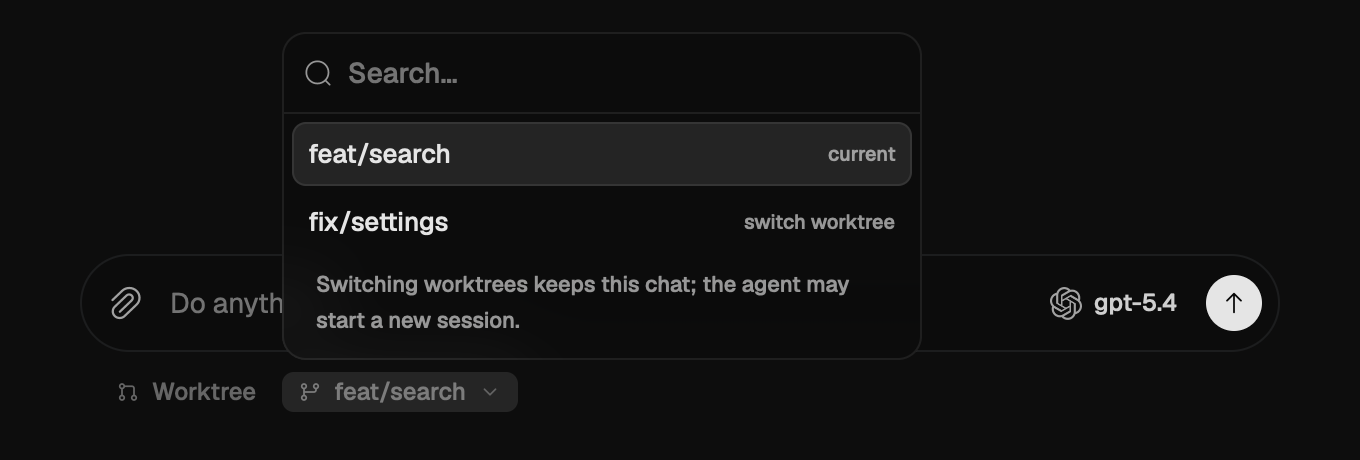
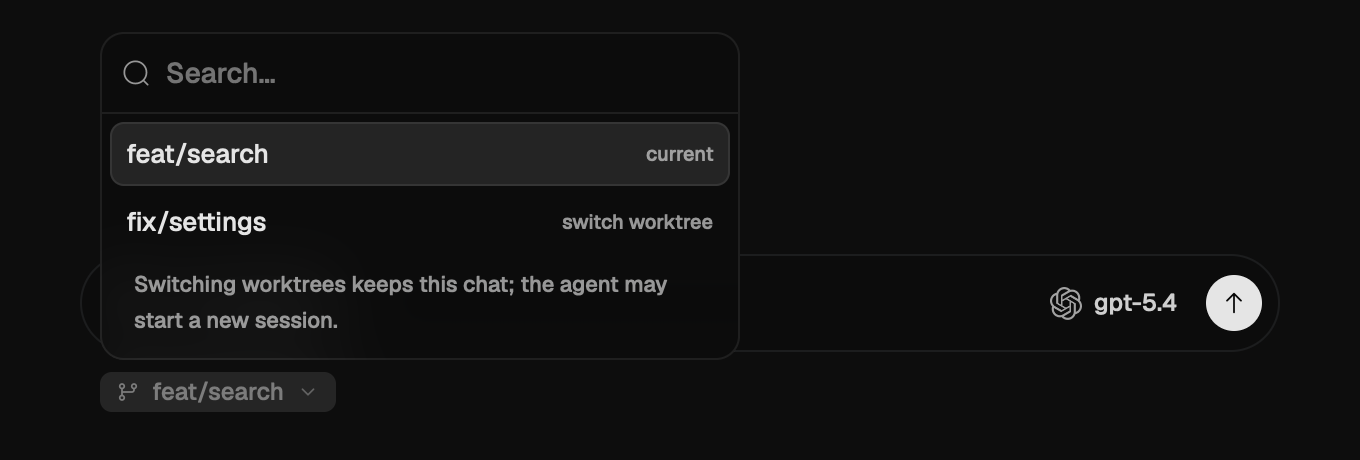
docs: refresh worktree selector captures without duplicate label

diff --git a/docs/screenshots/pr17/README.md b/docs/screenshots/pr17/README.md
@@ -1,8 +1,9 @@
 # PR #17 — existing worktrees only
 
-Native macOS GPUI `Composer` and picker captures from `cb74623f`, rendered with
+Native macOS GPUI `Composer` and picker captures from `7b051377`, rendered with
 the platform text system and Metal. The menu contains only existing linked
-worktrees. Main checkout and unoccupied branches are absent.
+worktrees. Main checkout and unoccupied branches are absent. The footer shows
+only the selector, without a separate Worktree icon/text label.
 
 An isolated worktree supplies fixed synthetic chat/branch data. The scenes show
 choosing a worktree, the same chat with `feat/search` selected, and its closed
